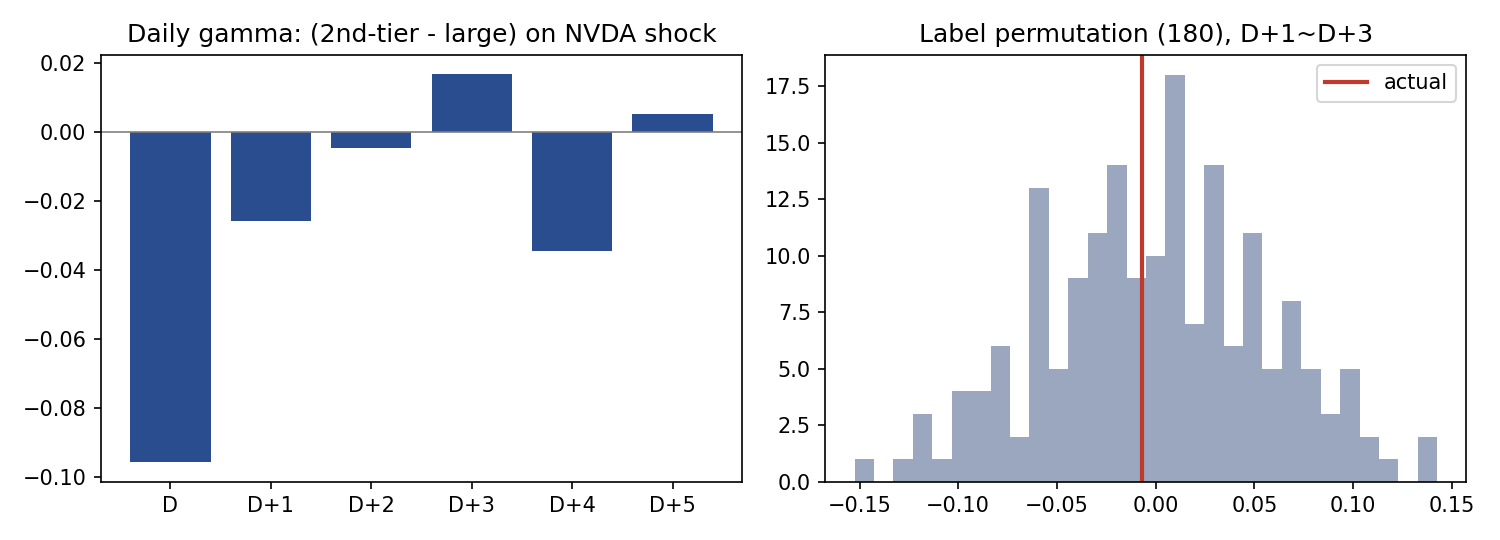
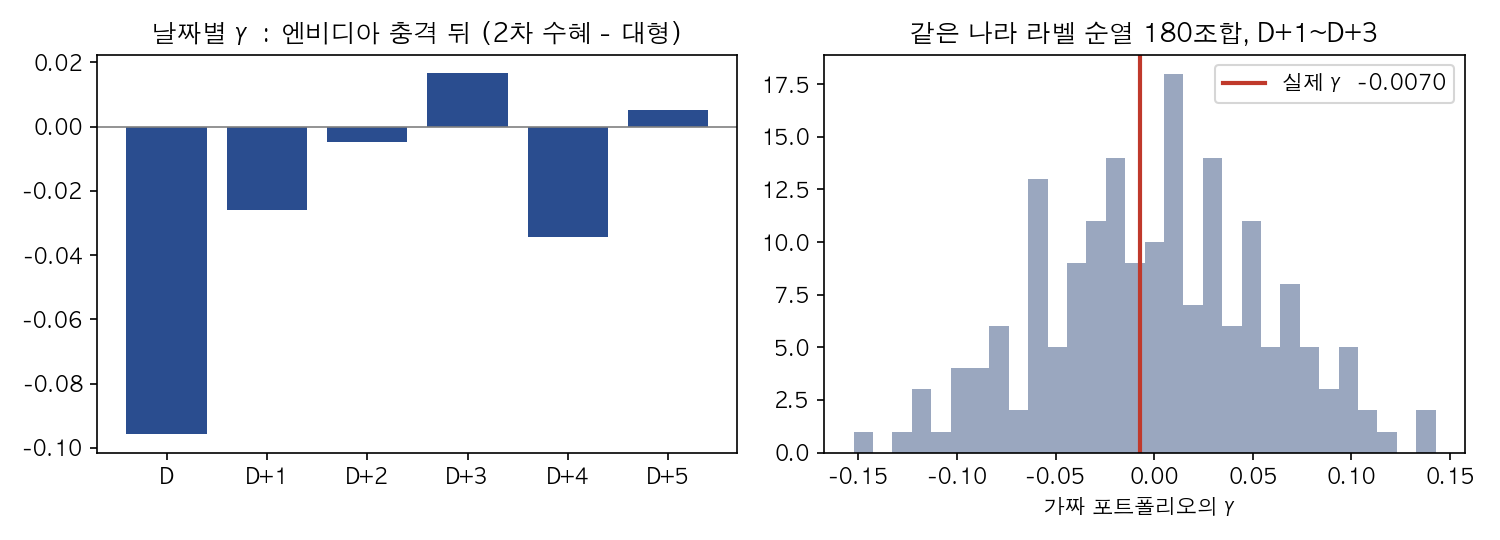
fix(week05): 그림 라벨 한글화와 docstring 옛 문서 이름 제거

diff --git a/week05/research/vol_ml.py b/week05/research/vol_ml.py
@@ -1,4 +1,4 @@
-"""가설 5(문서 7단계): 아시아 AI 종목 정보로 다음 세션의 큰 움직임을 예측한다."""
+"""가설 5: 아시아 AI 종목 정보로 다음 세션의 큰 움직임을 예측한다."""
 import numpy as np
 import pandas as pd
 import matplotlib.pyplot as plt
@@ -10,6 +10,9 @@ from sklearn.preprocessing import StandardScaler
 from sklearn.tree import DecisionTreeClassifier
 
 from second_tier_delay import COUNTRY, FIG, RES, load, stock_returns
+
+plt.rcParams["font.family"] = "AppleGothic"
+plt.rcParams["axes.unicode_minus"] = False
 
 END = pd.Timestamp("2026-11-11")
 INIT, STEP, B, BLOCK = 504, 21, 10_000, 10
@@ -228,11 +231,12 @@ def main():
     print(R.to_string(index=False, float_format=lambda v: f"{v:.4f}"))
 
     fig, ax = plt.subplots(figsize=(8, 3.6))
-    lab = [f"{t[:1]}-{m}" for t, m in zip(R["대상"], R["방법"])]
+    name = {"m1": "등락 특징", "m2_hmm": "HMM 국면", "m3_iforest": "이상치 점수", "tree": "결정나무(보조)"}
+    lab = [f"{t[:1]}. {name[m]}" for t, m in zip(R["대상"], R["방법"])]
     ax.barh(lab, R["평균Δlogloss"], color=["#2a4d8f" if k else "#9aa7bf" for k in R["판정대상"]])
     ax.axvline(0, color="gray", lw=0.8)
-    ax.set_xlabel("mean log-loss improvement vs baseline (>0 = better)")
-    ax.set_title("A = QQQ US session, B = TAIEX next day")
+    ax.set_xlabel("기본 모델 대비 평균 log-loss 개선 (0보다 크면 개선)")
+    ax.set_title("A = QQQ 미국 정규장, B = 대만 가권 다음 날")
     fig.tight_layout()
     fig.savefig(FIG / "h5_vol_ml.png", dpi=150)
 

diff --git a/week05/research/second_tier_delay.py b/week05/research/second_tier_delay.py
@@ -1,4 +1,4 @@
-"""가설 4(문서 6단계): 엔비디아 고유 충격 뒤 AI 2차 수혜 기업이 대형주보다 늦게 따라가는지 검정한다.
+"""가설 4: 엔비디아 고유 충격 뒤 AI 2차 수혜 기업이 대형주보다 늦게 따라가는지 검정한다.
 다른 가설 코드가 쓰는 종목 목록, 데이터 읽기, 결과 경로도 여기 있다.
 """
 from itertools import combinations
@@ -7,6 +7,9 @@ from pathlib import Path
 import matplotlib.pyplot as plt
 import numpy as np
 import pandas as pd
+
+plt.rcParams["font.family"] = "AppleGothic"
+plt.rcParams["axes.unicode_minus"] = False
 
 ROOT = Path(__file__).resolve().parents[3]
 DATA = ROOT / "data" / "market" / "week05_yahoo"
@@ -189,10 +192,11 @@ def main():
     ax[0].bar(range(6), path, color="#2a4d8f")
     ax[0].axhline(0, color="gray", lw=0.8)
     ax[0].set_xticks(range(6), ["D"] + [f"D+{h}" for h in range(1, 6)])
-    ax[0].set_title("Daily gamma: (2nd-tier - large) on NVDA shock")
+    ax[0].set_title("날짜별 γ: 엔비디아 충격 뒤 (2차 수혜 - 대형)")
     ax[1].hist(perm, bins=30, color="#9aa7bf")
-    ax[1].axvline(g_obs, color="#c0392b", lw=2, label="actual")
-    ax[1].set_title("Label permutation (180), D+1~D+3")
+    ax[1].axvline(g_obs, color="#c0392b", lw=2, label=f"실제 γ {g_obs:.4f}")
+    ax[1].set_title("같은 나라 라벨 순열 180조합, D+1~D+3")
+    ax[1].set_xlabel("가짜 포트폴리오의 γ")
     ax[1].legend()
     fig.tight_layout()
     fig.savefig(FIG / "h4_second_tier.png", dpi=150)

diff --git a/week05/research/second_tier_posthoc.py b/week05/research/second_tier_posthoc.py
@@ -1,4 +1,4 @@
-"""가설 4 사후 분석(문서 6단계): 아시아 대형 AI주의 D일 수익률과 2차 수혜 기업의 D+1~D+3 반응을 분석한다. 본선 판정에는 쓰지 않는다."""
+"""가설 4 사후 분석: 아시아 대형 AI주의 D일 수익률과 2차 수혜 기업의 D+1~D+3 반응을 분석한다. 본선 판정에는 쓰지 않는다."""
 import numpy as np
 import pandas as pd
 

diff --git a/week05/research/network.py b/week05/research/network.py
@@ -1,4 +1,4 @@
-"""가설 3(문서 5단계): 공개 공급망 지도를 따라 가격이 시간차를 두고 퍼지는지 검정하고 민감도를 본다."""
+"""가설 3: 공개 공급망 지도를 따라 가격이 시간차를 두고 퍼지는지 검정하고 민감도를 본다."""
 import warnings
 from pathlib import Path
 

diff --git a/week05/research/volatility_spillover.py b/week05/research/volatility_spillover.py
@@ -1,4 +1,4 @@
-"""가설 6(문서 8단계): 아시아 AI 종목 변동폭이 그날 밤 QQQ 변동폭 예측을 개선하는지 검정한다."""
+"""가설 6: 아시아 AI 종목 변동폭이 그날 밤 QQQ 변동폭 예측을 개선하는지 검정한다."""
 import numpy as np
 import pandas as pd
 
